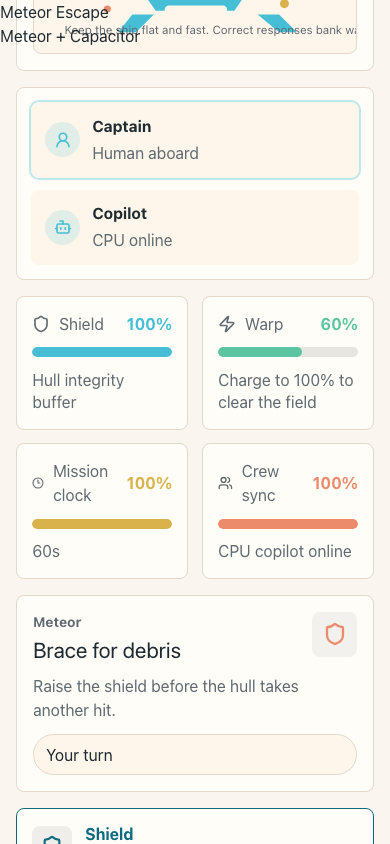
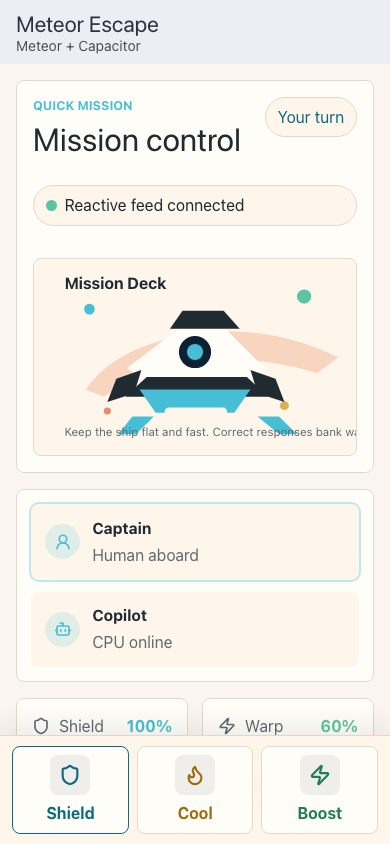
fix: polish Meteor Escape mobile gameplay

diff --git a/meteor-escape/e2e/game.spec.js b/meteor-escape/e2e/game.spec.js
@@ -38,11 +38,53 @@ function extractRoomCode(text) {
 }
 
 test('opens on understandable mobile game home', async ({ page }) => {
+  await page.setViewportSize({ width: 390, height: 844 });
   await page.goto('/');
   await expect(page.getByRole('heading', { name: 'Meteor Escape' })).toBeVisible();
   await expect(page.getByText('Charge warp before shields fail')).toBeVisible();
   await expect(page.getByRole('button', { name: 'Quick Mission' })).toBeVisible();
   await expect(page.getByRole('button', { name: 'Create Crew Mission' })).toBeVisible();
+
+  const tabbar = page.locator('.app-shell__tabbar');
+  const tabbarBounds = await tabbar.boundingBox();
+  const primaryActionBounds = await page.getByRole('button', { name: 'Quick Mission' }).boundingBox();
+  const tabBounds = await Promise.all(
+    ['Play', 'Records', 'System'].map((label) =>
+      page.locator(`.app-shell__tabbar [aria-label="${label}"]`).boundingBox()
+    )
+  );
+
+  expect(tabbarBounds).not.toBeNull();
+  expect(primaryActionBounds).not.toBeNull();
+  expect(tabbarBounds.y + tabbarBounds.height).toBeGreaterThanOrEqual(842);
+  expect(tabbarBounds.height).toBeGreaterThanOrEqual(48);
+  expect(primaryActionBounds.y + primaryActionBounds.height).toBeLessThanOrEqual(tabbarBounds.y);
+  expect(tabBounds.every(Boolean)).toBe(true);
+  expect(tabBounds.every((bounds) => bounds.width >= 48 && bounds.height >= 48)).toBe(true);
+  expect(tabBounds[0].x).toBeLessThan(tabBounds[1].x);
+  expect(tabBounds[1].x).toBeLessThan(tabBounds[2].x);
+  expect(tabBounds[2].x + tabBounds[2].width).toBeGreaterThan(300);
+});
+
+test('keeps all mission actions within thumb reach on a narrow phone', async ({ page }) => {
+  await page.setViewportSize({ width: 390, height: 844 });
+  await page.goto('/?testMode=1');
+  await page.getByRole('button', { name: 'Quick Mission' }).click();
+  await expect(getTurnChip(page)).toHaveText('Your turn');
+
+  const actionButtons = await getActionButtons(page);
+  const bounds = await actionButtons.evaluateAll((buttons) =>
+    buttons.map((button) => {
+      const rect = button.getBoundingClientRect();
+      return { x: rect.x, y: rect.y, width: rect.width, height: rect.height };
+    })
+  );
+
+  expect(bounds).toHaveLength(3);
+  expect(bounds.every((box) => box.width >= 48 && box.height >= 48)).toBe(true);
+  expect(bounds.every((box) => box.y >= 0 && box.y + box.height <= 844)).toBe(true);
+  expect(bounds[0].x).toBeLessThan(bounds[1].x);
+  expect(bounds[1].x).toBeLessThan(bounds[2].x);
 });
 
 test('keeps technical controls on System Information', async ({ page }) => {
@@ -235,7 +277,7 @@ test('plays quick mission with visible CPU turns and result', async ({ page }) =
   await expect(page.getByRole('button', { name: 'Share Result' })).toBeVisible();
 });
 
-async function assertMissionActionLayout(page, viewport, requireViewportFit) {
+async function assertMissionActionLayout(page, viewport) {
   await page.setViewportSize(viewport);
   await page.goto('/?testMode=1');
   await page.getByRole('button', { name: 'Quick Mission' }).click();
@@ -257,22 +299,31 @@ async function assertMissionActionLayout(page, viewport, requireViewportFit) {
     expect(box.x).toBeGreaterThanOrEqual(0);
     expect(box.y).toBeGreaterThanOrEqual(0);
     expect(box.x + box.width).toBeLessThanOrEqual(viewport.width);
-    if (requireViewportFit) {
-      expect(box.y + box.height).toBeLessThanOrEqual(viewport.height);
-    }
+    expect(box.y + box.height).toBeLessThanOrEqual(viewport.height);
   }
 
-  for (let index = 1; index < boxes.length; index += 1) {
-    expect(boxes[index - 1].y + boxes[index - 1].height).toBeLessThanOrEqual(boxes[index].y);
+  for (let first = 0; first < boxes.length; first += 1) {
+    for (let second = first + 1; second < boxes.length; second += 1) {
+      const overlap =
+        boxes[first].x < boxes[second].x + boxes[second].width &&
+        boxes[first].x + boxes[first].width > boxes[second].x &&
+        boxes[first].y < boxes[second].y + boxes[second].height &&
+        boxes[first].y + boxes[first].height > boxes[second].y;
+      expect(overlap).toBe(false);
+    }
   }
 }
 
 test('keeps mission actions 64 pixels tall without overlap on 320x700 phones', async ({ page }) => {
-  await assertMissionActionLayout(page, { width: 320, height: 700 }, false);
+  await assertMissionActionLayout(page, { width: 320, height: 700 });
 });
 
 test('keeps mission actions in viewport without overlap on 390x844 phones', async ({ page }) => {
-  await assertMissionActionLayout(page, { width: 390, height: 844 }, true);
+  await assertMissionActionLayout(page, { width: 390, height: 844 });
+});
+
+test('keeps mission actions in viewport without overlap on 768x1024 tablets', async ({ page }) => {
+  await assertMissionActionLayout(page, { width: 768, height: 1024 });
 });
 
 test('keeps mission result sheet inside viewport and honors reduced motion', async ({ page }) => {

diff --git a/meteor-escape/imports/ui/pages/PlayPage.jsx b/meteor-escape/imports/ui/pages/PlayPage.jsx
@@ -39,51 +39,50 @@ export function PlayPage({
               Solo now, crew optional
             </span>
           </div>
+
+          <section className="play-home__actions" aria-label="Start a mission">
+            <Button
+              large
+              tonal={false}
+              className="primary-action"
+              onClick={hasBackgroundMission ? onResumeMission : onQuickMission}
+              disabled={hasBackgroundMission ? false : busyAction !== null || crewWaiting || controlsDisabled}
+            >
+              {primaryActionLabel}
+            </Button>
+
+            <div className="crew-actions">
+              <Button
+                className="secondary-action"
+                onClick={onCreateCrew}
+                disabled={busyAction !== null || controlsDisabled || hasBackgroundMission}
+              >
+                {createCrewLabel}
+              </Button>
+              <Button
+                className="secondary-action"
+                onClick={onJoinCrew}
+                disabled={busyAction !== null || crewWaiting || controlsDisabled || hasBackgroundMission}
+              >
+                Join Crew Mission
+              </Button>
+            </div>
+
+            {statusMessage ? (
+              <p className="play-home__status" role="status" aria-live="polite">
+                {statusMessage}
+              </p>
+            ) : null}
+          </section>
         </div>
 
-        <div className="play-home__media">
-          <img
-            className="play-home__key-art"
-            src="/images/meteor-escape-key-art.webp"
-            alt="Meteor Escape key art"
-          />
-          <FlightDeckArt />
-        </div>
-      </section>
+        <img
+          className="play-home__key-art"
+          src="/images/meteor-escape-key-art.webp"
+          alt="Meteor Escape key art"
+        />
 
-      <section className="play-home__actions" aria-label="Start a mission">
-        <Button
-          large
-          tonal={false}
-          className="primary-action"
-          onClick={hasBackgroundMission ? onResumeMission : onQuickMission}
-          disabled={hasBackgroundMission ? false : busyAction !== null || crewWaiting || controlsDisabled}
-        >
-          {primaryActionLabel}
-        </Button>
-
-        <div className="crew-actions">
-          <Button
-            className="secondary-action"
-            onClick={onCreateCrew}
-            disabled={busyAction !== null || controlsDisabled || hasBackgroundMission}
-          >
-            {createCrewLabel}
-          </Button>
-          <Button
-            className="secondary-action"
-            onClick={onJoinCrew}
-            disabled={busyAction !== null || crewWaiting || controlsDisabled || hasBackgroundMission}
-          >
-            Join Crew Mission
-          </Button>
-        </div>
-
-        {statusMessage ? (
-          <p className="play-home__status" role="status" aria-live="polite">
-            {statusMessage}
-          </p>
-        ) : null}
+        <FlightDeckArt />
       </section>
     </div>
   );

diff --git a/meteor-escape/client/main.css b/meteor-escape/client/main.css
@@ -202,12 +202,19 @@ img {
 
 .play-home__hero {
   display: grid;
+  grid-template-areas:
+    'copy'
+    'art'
+    'deck';
   gap: 1rem;
   align-items: start;
 }
 
+.play-home__copy {
+  grid-area: copy;
+}
+
 .play-home__copy,
-.play-home__actions,
 .records-empty,
 .system-page__note,
 .mission-waiting {
@@ -388,11 +395,6 @@ img {
   background: var(--meteor-surface-strong);
 }
 
-.play-home__media {
-  display: grid;
-  gap: 0.85rem;
-}
-
 .play-home__key-art,
 .flight-deck-art {
   width: 100%;
@@ -402,13 +404,20 @@ img {
 }
 
 .play-home__key-art {
+  grid-area: art;
   aspect-ratio: 16 / 10;
   object-fit: contain;
   padding: 0.75rem;
 }
 
+.flight-deck-art {
+  grid-area: deck;
+}
+
 .play-home__actions {
-  padding: 1rem;
+  margin-top: 1rem;
+  padding-top: 1rem;
+  border-top: 1px solid var(--meteor-line);
 }
 
 .primary-action,
@@ -891,6 +900,40 @@ img {
   gap: 0.8rem;
 }
 
+@media (max-width: 1023px) {
+  .mission-stage--playing .mission-actions {
+    position: fixed;
+    z-index: 25;
+    right: 0;
+    bottom: 0;
+    left: 0;
+    grid-template-columns: repeat(3, minmax(0, 1fr));
+    gap: 0.5rem;
+    padding: 0.65rem calc(0.75rem + var(--meteor-safe-right))
+      calc(0.65rem + var(--meteor-safe-bottom)) calc(0.75rem + var(--meteor-safe-left));
+    border-top: 1px solid var(--meteor-line);
+    background: rgba(255, 246, 235, 0.98);
+    box-shadow: 0 -10px 24px rgba(31, 43, 49, 0.08);
+  }
+
+  .mission-stage--playing .mission-action {
+    min-height: 72px;
+    flex-direction: column;
+    justify-content: center;
+    gap: 0.35rem;
+    padding: 0.5rem;
+    text-align: center;
+  }
+
+  .mission-stage--playing .mission-action__body {
+    display: block;
+  }
+
+  .mission-stage--playing .mission-action__detail {
+    display: none;
+  }
+}
+
 .mission-action {
   display: flex;
   align-items: center;
@@ -1196,6 +1239,12 @@ img {
   .play-home__hero,
   .mission-stage__hero {
     grid-template-columns: minmax(0, 1.1fr) minmax(0, 0.9fr);
+  }
+
+  .play-home__hero {
+    grid-template-areas:
+      'copy art'
+      'copy deck';
   }
 
   .play-home__copy {

diff --git a/meteor-escape/imports/ui/components/MissionStage.jsx b/meteor-escape/imports/ui/components/MissionStage.jsx
@@ -113,7 +113,7 @@ export function MissionStage({ game, now, busy, connected, onAction }) {
   }, [game, latestEvent]);
 
   return (
-    <div className="mission-stage">
+    <div className={`mission-stage mission-stage--${game.status}`}>
       <p className="mission-stage__live" role="status" aria-live="polite">
         {liveMessage}
       </p>

diff --git a/meteor-escape/postcss.config.js b/meteor-escape/postcss.config.js
@@ -1,0 +1,5 @@
+module.exports = {
+  plugins: {
+    '@tailwindcss/postcss': {},
+  },
+};
